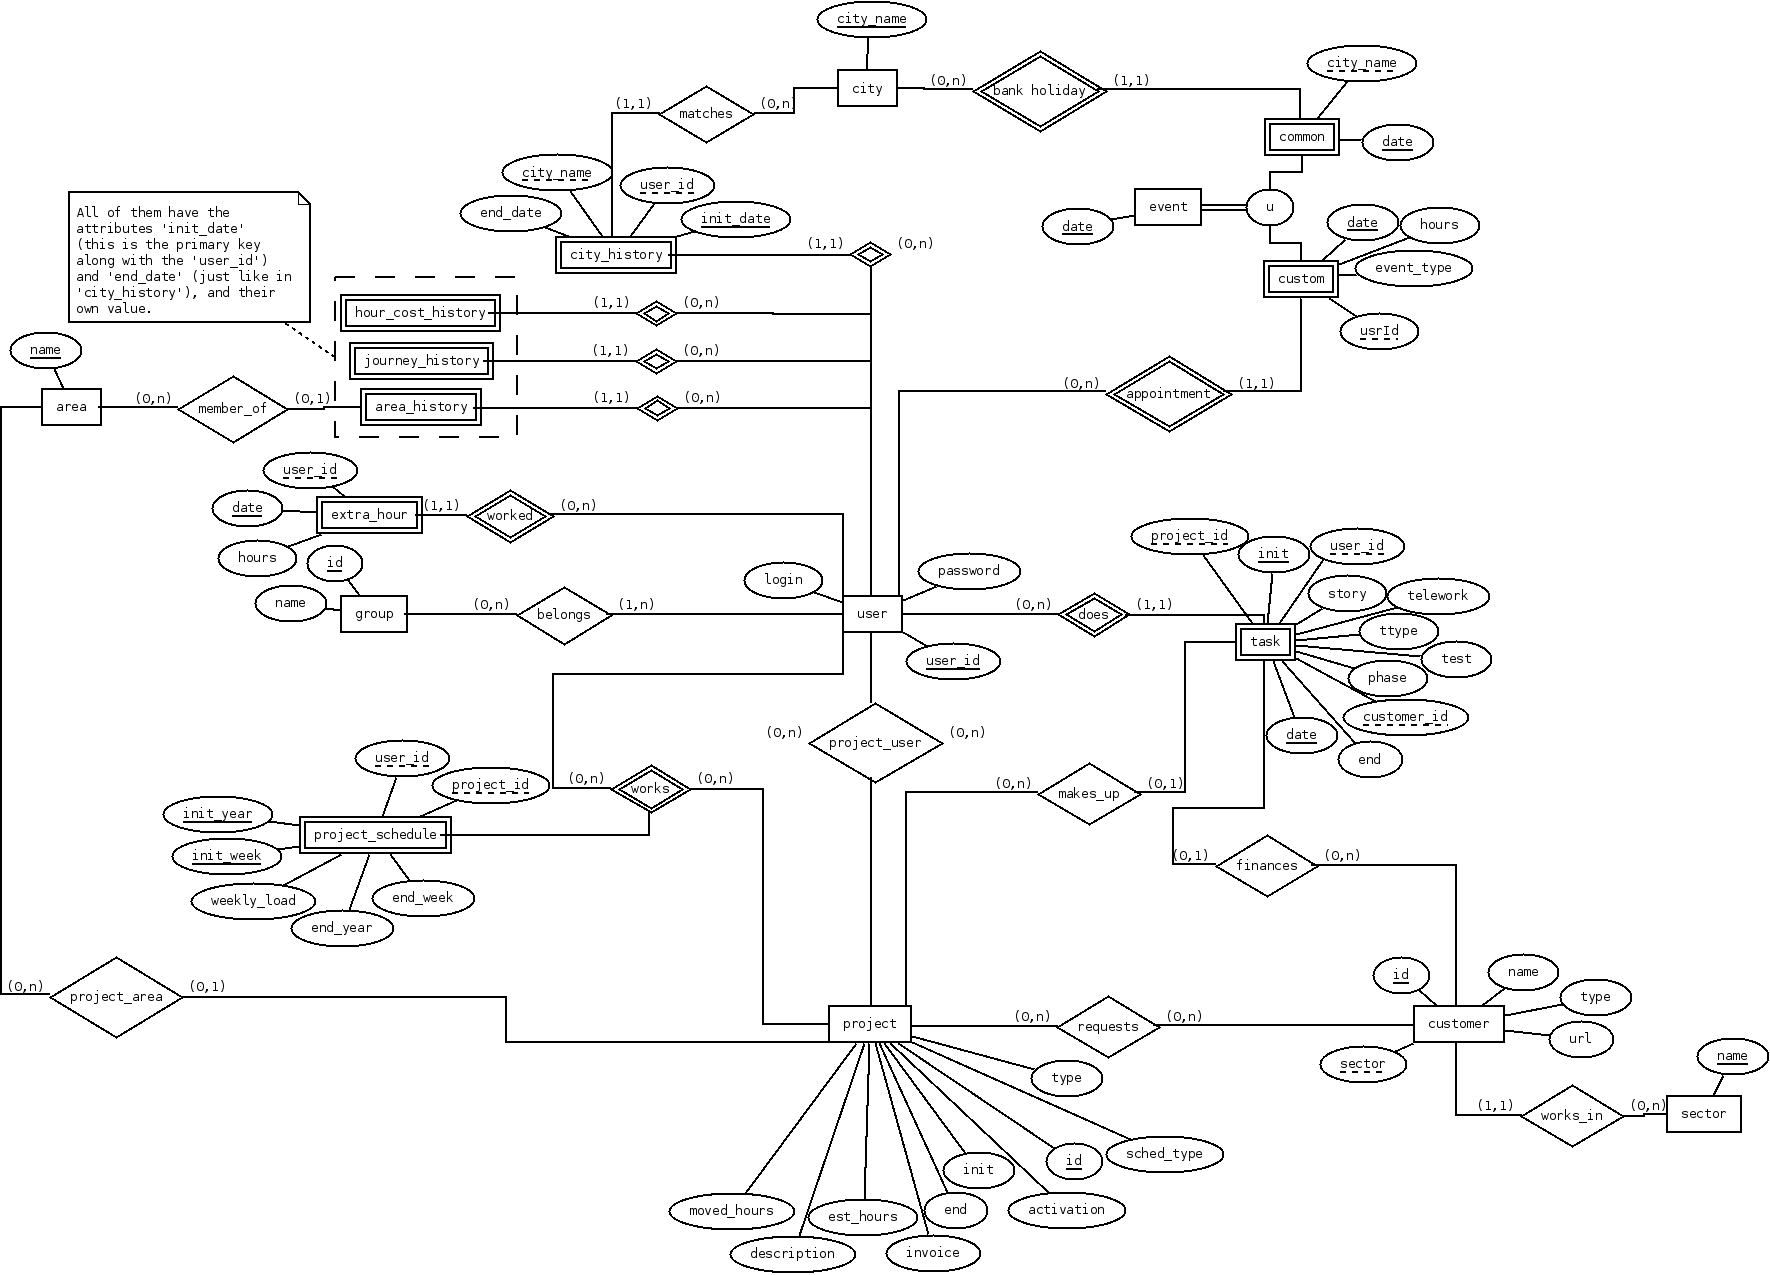
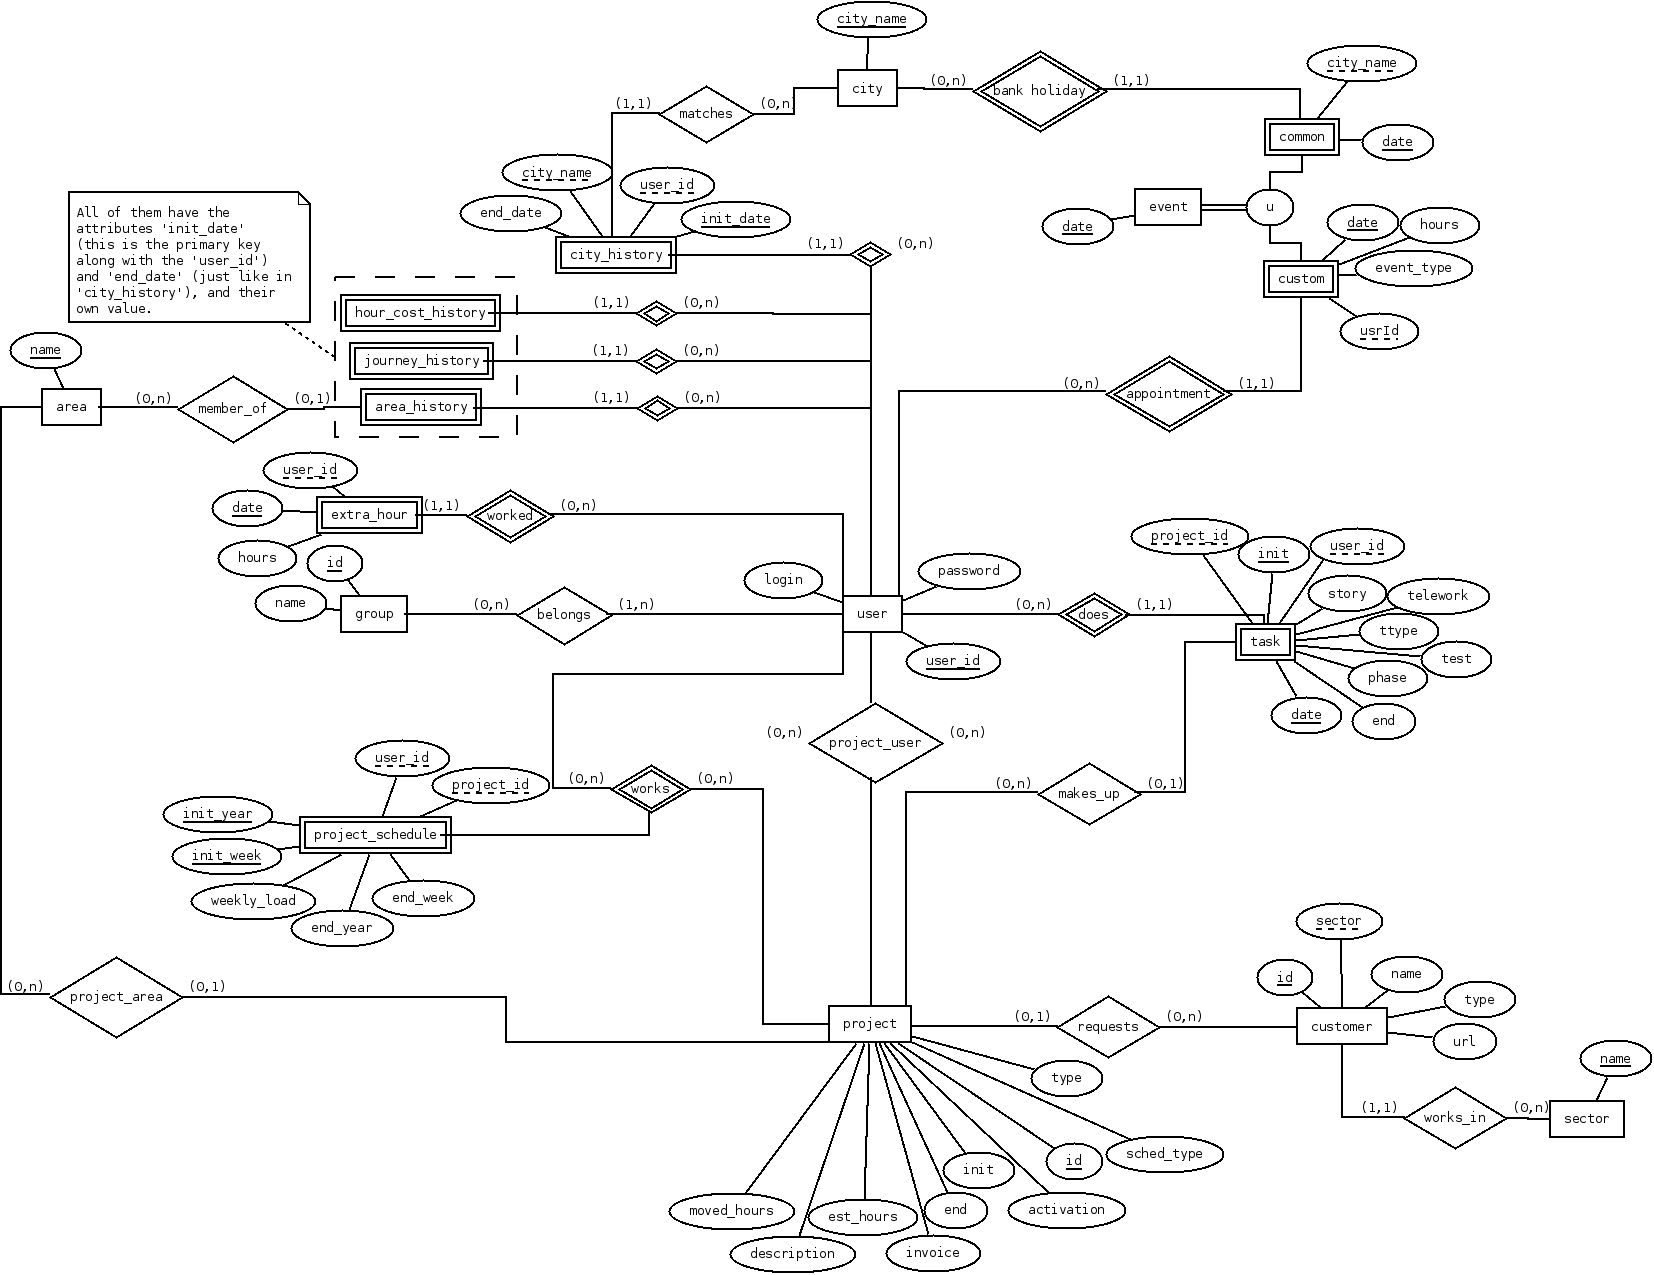
[#248] Update documentation to reflect the new relations with client

diff --git a/docs/user/overview.rst b/docs/user/overview.rst
@@ -25,8 +25,7 @@ entities:
 
 * Project entity represents a project, a common goal for a set of tasks.
 
-* Client entity represents an organization who requests a project and usually
-  finances the tasks needed to carry over that project.
+* Client entity represents an organization who requests a project.
 
 .. figure:: i/main-classes.png
 
@@ -41,12 +40,8 @@ The relations stablished between them are the following:
 
 * Every task belongs to one project; projects can have any number of tasks.
 
-* Clients request projects; multiple clients can request the same project, and
-  a client can request more than one project.
-
-* In a scenario where multiple clients have requested the same project, every
-  task is related with one specific client who in theory finances the cost of
-  that task.
+* Clients request projects; a client can request more than one project but each
+  project is requested only by one client.
 
 Data model for working day management
 =====================================

diff --git a/docs/developer/data-model.rst b/docs/developer/data-model.rst
@@ -24,8 +24,8 @@ entities and relations:
 
 * The entity *task* could consider the main object of the application,
   since the main purpose of PhpReport is to store, classify and extract
-  information about tasks. It has important relations with *user*,
-  *customer* and *project*, that serve to classify the task.
+  information about tasks. It has important relations with *user* and *project*,
+  that serve to classify the task.
 
 * The entity *user* is used mainly to control the access to the application,
   besides classifying tasks. There is a series of entities related with user
@@ -37,7 +37,7 @@ entities and relations:
   mention the relation called *works* with *user*, which could be used to
   restrict the access to certain information in the application.
 
-* The entity *customer* classifies projects and tasks.
+* The entity *customer* classifies projects.
 
 * The entity *sector* classifies customers.
 
